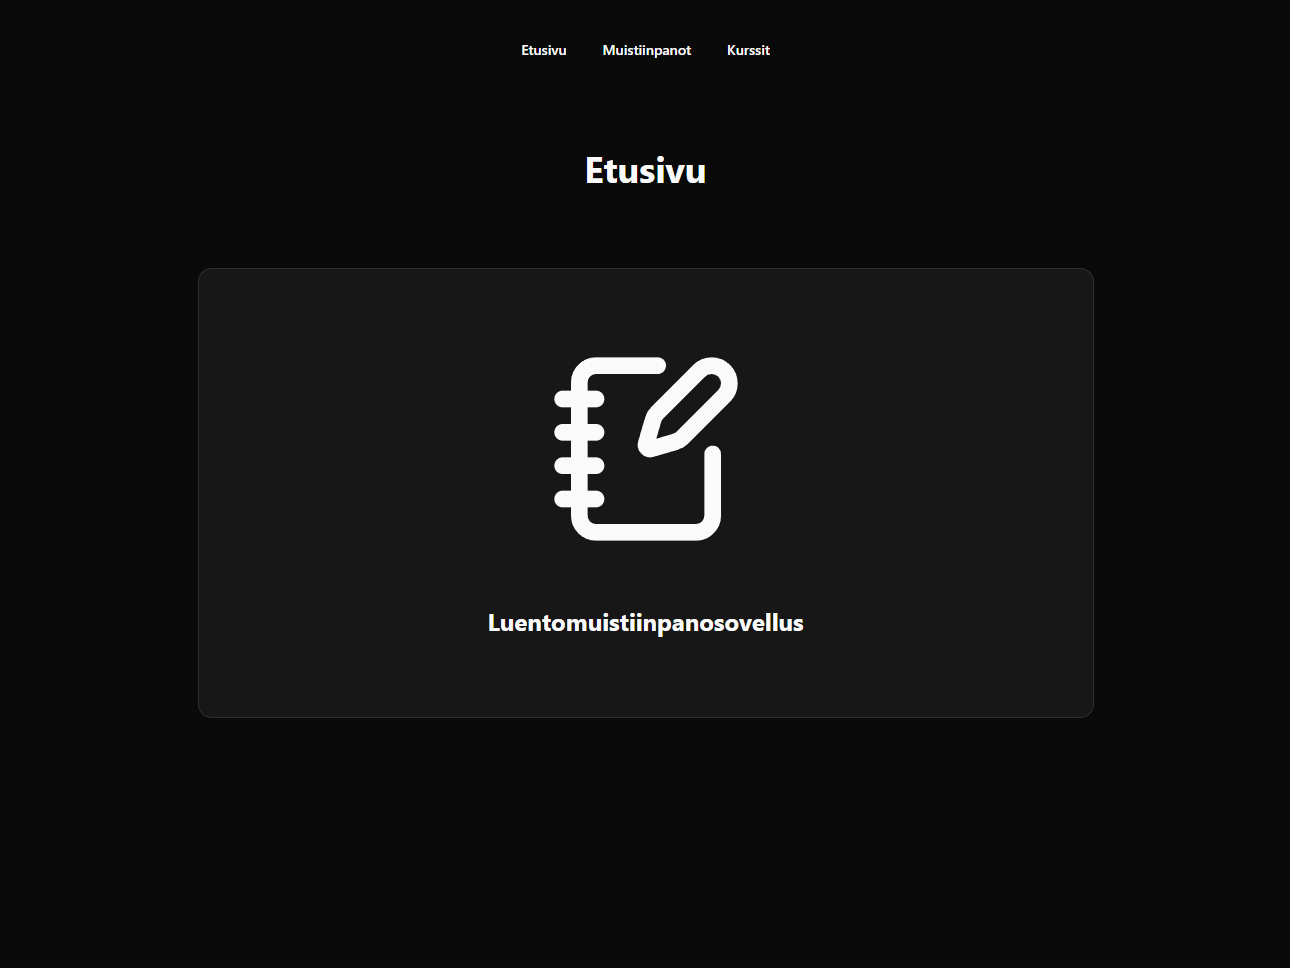
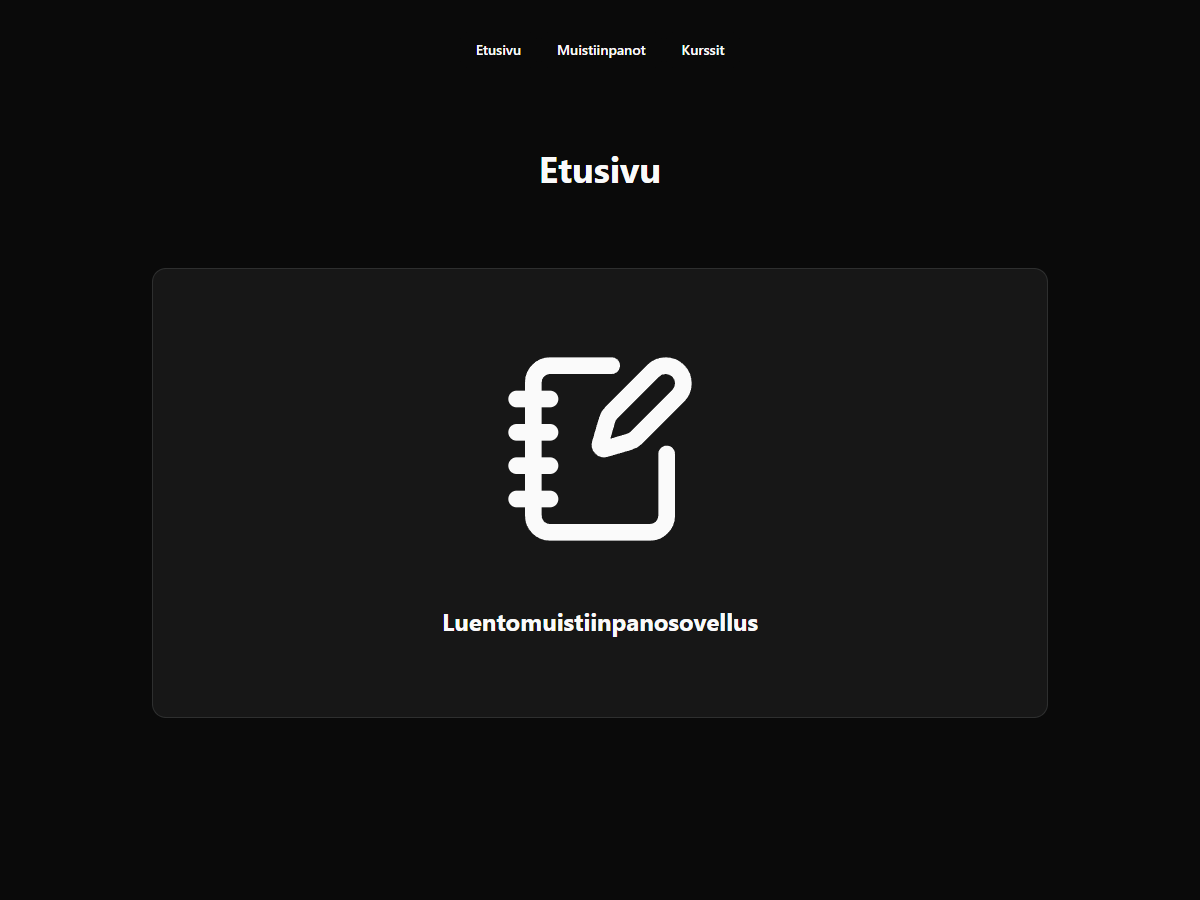
README.md tiedoston testiversio 7

diff --git a/README.md b/README.md
@@ -23,12 +23,12 @@ Opiskelijoille suunnattu moderni ja selkeä web-sovellus luentomuistiinpanojen j
     <tr>
       <th style="text-align:center;">
         <p align="center">
-                <img src="images/home-desktop.png" alt="home-desktop" width="" height="200">
+                <img src="images/home-desktop.png" alt="home-desktop" width="" height="50%">
         </p>
       </th>
       <th style="text-align:center;">
         <p align="center">
-                <img src="images/home-mobile.png" alt="home-mobile" width="" height="200">
+                <img src="images/home-mobile.png" alt="home-mobile" width="" height="50%">
         </p>
       </th>
     </tr>
@@ -63,12 +63,12 @@ Opiskelijoille suunnattu moderni ja selkeä web-sovellus luentomuistiinpanojen j
     <tr>
       <th style="text-align:center;">
         <p align="center">
-          <img src="images/notes-desktop.png" alt="notes-desktop" width="" height="200">
+          <img src="images/notes-desktop.png" alt="notes-desktop" width="" height="50%">
         </p>
       </th>
       <th style="text-align:center;">
         <p align="center">
-          <img src="images/notes-mobile.png" alt="notes-mobile" width="" height="200">
+          <img src="images/notes-mobile.png" alt="notes-mobile" width="" height="50%">
         </p>
       </th>
     </tr>
@@ -91,12 +91,12 @@ Opiskelijoille suunnattu moderni ja selkeä web-sovellus luentomuistiinpanojen j
     <tr>
       <th style="text-align:center;">
         <p align="center">
-          <img src="images/newnote-desktop.png" alt="newnote-desktop" width="" height="200">
+          <img src="images/newnote-desktop.png" alt="newnote-desktop" width="" height="50%">
         </p>
       </th>
       <th style="text-align:center;">
         <p align="center">
-          <img src="images/newnote-mobile.png" alt="newnote-mobile" width="" height="200">
+          <img src="images/newnote-mobile.png" alt="newnote-mobile" width="" height="50%">
         </p>
       </th>
     </tr>
@@ -129,12 +129,12 @@ Opiskelijoille suunnattu moderni ja selkeä web-sovellus luentomuistiinpanojen j
     <tr>
       <th style="text-align:center;">
         <p align="center">
-          <img src="images/courses-desktop.png" alt="courses-desktop" width="" height="200">
+          <img src="images/courses-desktop.png" alt="courses-desktop" width="" height="50%">
         </p>
       </th>
       <th style="text-align:center;">
         <p align="center">
-          <img src="images/courses-mobile.png" alt="courses-mobile" width="" height="200">
+          <img src="images/courses-mobile.png" alt="courses-mobile" width="" height="50%">
         </p>
       </th>
     </tr>
@@ -157,12 +157,12 @@ Opiskelijoille suunnattu moderni ja selkeä web-sovellus luentomuistiinpanojen j
     <tr>
       <th style="text-align:center;">
         <p align="center">
-          <img src="images/newcourse-desktop.png" alt="newcourse-desktop" width="" height="200">
+          <img src="images/newcourse-desktop.png" alt="newcourse-desktop" width="" height="50%">
         </p>
       </th>
       <th style="text-align:center;">
         <p align="center">
-          <img src="images/newcourse-mobile.png" alt="newcourse-mobile" width="" height="200">
+          <img src="images/newcourse-mobile.png" alt="newcourse-mobile" width="" height="50%">
         </p>
       </th>
     </tr>
